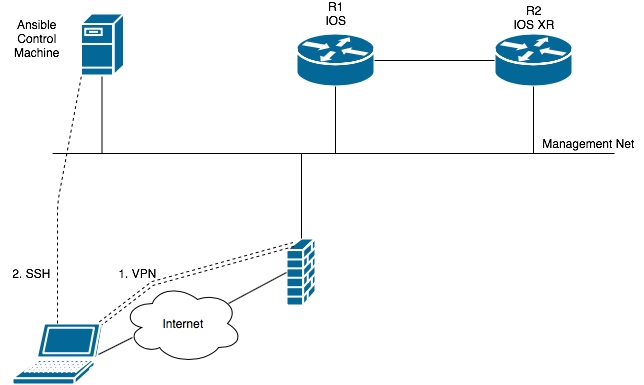
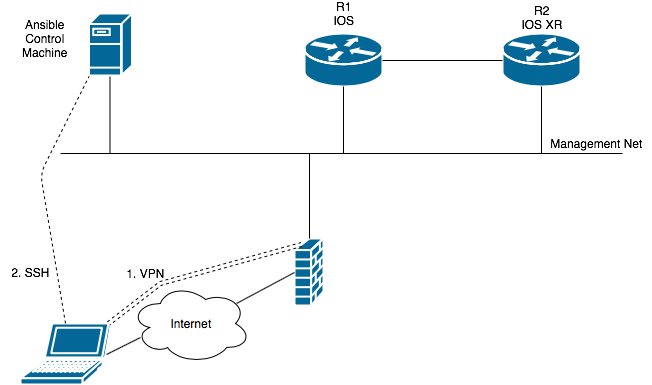
skindown

diff --git a/network-automation-with-ansible-apr16.md b/network-automation-with-ansible-apr16.md
@@ -1,0 +1,363 @@
+
+# **<p align="center">NETWORK AUTOMATION</p>**
+# *<p align="center">with</p>*
+# **<p align="center">ANSIBLE</p>**
+---
+# **<p align="center">Lab Guide</p>**
+
+---
+# Table of Contents
+
+<!-- TOC depthFrom:1 depthTo:6 withLinks:1 updateOnSave:1 orderedList:0 -->
+
+- [**<p align="center">NETWORK AUTOMATION</p>**](#p-aligncenternetwork-automationp)
+- [*<p align="center">with</p>*](#p-aligncenterwithp)
+- [**<p align="center">ANSIBLE</p>**](#p-aligncenteransiblep)
+- [**<p align="center">Lab Guide</p>**](#p-aligncenterlab-guidep)
+- [Table of Contents](#table-of-contents)
+- [Lab Access](#lab-access)
+	- [Topology](#topology)
+	- [Lab access](#lab-access)
+		- [VPN in](#vpn-in)
+		- [SSH into "your" Ansible server](#ssh-into-your-ansible-server)
+		- [Ping your routers from Ansible server](#ping-your-routers-from-ansible-server)
+- [Ansible Concepts](#ansible-concepts)
+	- [Verification](#verification)
+		- [Sample output](#sample-output)
+	- [Configuration file](#configuration-file)
+		- [Sample output](#sample-output)
+	- [Inventory file](#inventory-file)
+		- [Example output](#example-output)
+		- [Verification](#verification)
+		- [Example output:](#example-output)
+	- [Ansible Modules](#ansible-modules)
+		- [Using "raw" module](#using-raw-module)
+		- [Examples](#examples)
+	- [Playbooks](#playbooks)
+		- [Executing playbooks](#executing-playbooks)
+		- [Optional playbook](#optional-playbook)
+
+<!-- /TOC -->
+
+---
+
+# Lab Access
+
+## Topology
+![topology](./images/ansible-lab-topo.png)
+
+## Lab access
+- Lab access involves two steps:
+  - Step-1: VPN into lab VPN server
+  - Step-2: SSH into the Ansible server
+
+### VPN in
+- Use Cisco AnyConnect Secure Mobility client
+  - Make sure to **uncheck** "block connections to untrusted servers"
+- Use the below details:
+  - VPN server IP address:
+  - Username:
+  - Password:
+
+### SSH into "your" Ansible server
+- Find your Ansible server IP address
+  - Refer to the Smartsheet that Manish sent.
+- If your PC is MS Windows, use *putty* or some other ssh client
+  - IP: `172.16.101.x`
+  - User: `cisco`
+  - Password: `cisco`
+- If your PC is MAC, from terminal app: `ssh cisco@172.16.101.x`
+
+### Ping your routers from Ansible server
+- Find your Ansible server IP address
+  - Refer to the Smartsheet that Manish sent.
+- On Ansible server, from Ubuntu $ prompt, `ping <IOS router IP>`
+- And, `ping <XR router IP>`
+- You should be able to **ssh into Ubuntu server and ping R1 and R2** to advance to the next section.
+- Review the section and discuss if you have any questions.
+
+
+---
+
+# Ansible Concepts
+- The following concepts are covered in this section:
+  - Configuration file
+  - inventory file
+  - Ansible Modules
+  - YAML
+  - Ansible Playbooks
+
+## Verification
+- Verify Ansible installation. Execute the commands below:
+  - `ansible --version`
+  - `which ansible`
+  - `ansible --help`
+
+### Sample output
+
+```
+cisco@ansible-controller:~$ ansible --version
+ansible 2.5.0
+  config file = /etc/ansible/ansible.cfg
+  configured module search path = [u'/home/cisco/.ansible/plugins/modules', u'/usr/share/ansible/plugins/modules']
+  ansible python module location = /usr/lib/python2.7/dist-packages/ansible
+  executable location = /usr/bin/ansible
+  python version = 2.7.6 (default, Oct 26 2016, 20:30:19) [GCC 4.8.4]
+cisco@ansible-controller:~$ which ansible
+/usr/bin/ansible
+cisco@server-1:~$ ansible --help
+Usage: ansible <host-pattern> [options]
+:
+Some modules do not make sense in Ad-Hoc (include, meta, etc)
+cisco@server-1:~$
+```
+## Configuration file
+
+- Find Ansible config file
+  - `$ ansible --version`
+  - This output points to `config file = /etc/ansible/ansible.cfg`
+- Browse the config file and quickly go over different sections, denoted by []
+  - `$ grep -v "#" /etc/ansible/ansible.cfg | grep -v ^$`
+- In this section, we will edit 4 settings, under [default] section:
+  - inventory
+  - host_key_checking
+  - timeout
+  - retry_files_enabled
+- Read the config file and find the default settings for the above parameters
+  - `$ grep inventory /etc/ansible/ansible.cfg`
+  - `$ grep host_key /etc/ansible/ansible.cfg`
+  - `$ grep timeout /etc/ansible/ansible.cfg`
+  - `$ grep retry_files_enabled /etc/ansible/ansible.cfg`
+- Edit the config file
+  - Use your favorite editing method to edit the file
+  - Ubuntu inbuilt editors: vi, vim
+  - Or, edit the file on your laptop and copy to Ansible server
+  - Or, copy it from reference directory (XXXX)
+  - The target config lines are already there in the file but are commented. You may add new lines or simple delete # at the beginning of the line.
+- After editing, the config file will look like below.
+
+### Sample output
+
+```
+[defaults]
+
+inventory      = /etc/ansible/hosts
+
+host_key_checking = False
+
+timeout = 10
+
+retry_files_enabled = False
+
+cisco@ansible-controller:~$ grep -v "#" /etc/ansible/ansible.cfg | grep -v ^$
+
+[defaults]
+inventory      = /etc/ansible/hosts
+host_key_checking = False
+timeout = 10
+retry_files_enabled = False
+
+[inventory]
+[privilege_escalation]
+[paramiko_connection]
+[ssh_connection]
+[persistent_connection]
+[accelerate]
+[selinux]
+[colors]
+[diff]
+```
+
+- Review the config file subsection and discuss if you have any questions.
+
+## Inventory file
+
+- Edit your default inventory file: /etc/ansible/hosts
+- Create two device groups: IOS and XR
+- Assign the following variables to the devices: ansible_user=cisco ansible_ssh_pass=cisco
+- Find out your IOS and XR router mgmt IP addresses. Plug them in the file below.
+- For editing, you may use your favorite method.
+
+### Example output
+```
+[IOS]
+172.16.101.X ansible_user=cisco ansible_ssh_pass=cisco
+
+[XR]
+172.16.101.X ansible_user=cisco ansible_ssh_pass=cisco
+
+[ALL:children]
+IOS
+XR
+```
+
+### Verification
+- Read the contents of inventory file and verify acuracy: `$ cat /etc/ansible/hosts`
+- List inventory groups:
+
+```
+ansible --list-hosts IOS
+ansible --list-hosts XR
+ansible --list-hosts ALL
+```
+
+### Example output:
+
+```
+cisco@ansible-controller:~$ ansible --list-hosts IOS
+  hosts (1):
+    172.16.101.91
+cisco@ansible-controller:~$ ansible --list-hosts XR
+  hosts (1):
+    172.16.101.92
+cisco@ansible-controller:~$ ansible --list-hosts ALL
+  hosts (2):
+    172.16.101.91
+    172.16.101.92
+cisco@ansible-controller:~$
+```
+
+- Review the inventory subsection and discuss if you have any questions.
+
+
+## Ansible Modules
+
+- Ansible ships with several modules.
+- List installed modules:
+
+```
+$ ansible-doc -l
+$ ansible-doc -l | wc -l
+$ ansible-doc -l | grep ios_
+$ ansible-doc -l | grep iosxr
+```
+
+### Using "raw" module
+- What is raw module: Executes a low-down and dirty SSH command, not going through the module subsystem
+- We can execute commands on remote devices, using Ansible Raw module.
+- Ensure your server has Raw module: `$ ansible-doc -l | grep raw`
+- Detailed documentations: `$ ansible-doc raw` (just browse; no research)
+- Syntax: `ansible <devices> -m raw -a <command>`
+  - -m = module name
+  - -a = arguments
+
+### Examples
+- Execute a command on **your** routers (use correct IP address)
+
+```
+$ ansible 172.16.101.91 -m raw -a "sho ip interface brief"
+```
+
+- Execute a command on all routers in XR group
+  - Remember that you created XR group in "inventory" subsection.
+
+```
+$ ansible XR -m raw -a "sho ip interface brief"
+```
+- Execute "show ip int br" on all routers
+
+```
+$ ansible ALL -m raw -a "sho ip interface brief"
+```
+
+- Review this subsection and discuss if you have any questions.
+
+## Playbooks
+- Playbook structure:
+  - Playbook contains a list of plays.
+  - Each "play", mainly has 2 sections: 1) play-level parameters and 2) one or more "tasks"
+  - Each "tasks" section contains a list of modules.
+  - Each "module" consists a list of actions (~commands).
+  - All this is written in YAML format.
+- Here is a typical structure:
+
+```
+---
+
+- name: play-1 description
+  play-1-level parameters
+
+  tasks:
+    - name: task-1 description
+      module-1
+        action-1
+        action-2
+
+    - name: task-2 description
+      module-n
+        action-1
+        action-n
+...
+```
+
+- Copy the below contents into a file called p1.yml
+
+```
+---
+- name: play-1-output from IOS routers
+  hosts: IOS
+  gather_facts: no
+
+  tasks:
+    - raw:
+        show ip route summary
+
+      register: IOS_output
+
+    - debug:
+        var: IOS_output
+...
+```
+
+### Executing playbooks
+- After creating the playbook, it can be executed by using "`ansible-playbook`" command
+- Execute the below:
+  - `$ ansible-playbook p1.yml --syntax-check`
+  - `$ ansible-playbook p1.yml --check`
+  - `$ ansible-playbook p1.yml --step`
+  - `$ ansible-playbook p1.yml`
+
+> Quick read now, research later:
+>
+> "gather_facts: no"
+> - By default, Ansible collects system information. This is not supported in our environment and hence disabled.
+>
+> "register"
+> - Save the result from the module in a variable. In this case, we are saving "show ip.." output in IOS_output
+> - Refer: http://docs.ansible.com/ansible/latest/playbooks_conditionals.html#register-variables
+>
+> "debug"
+> - Debug module prints data
+> - reference: http://docs.ansible.com/ansible/latest/debug_module.html
+
+
+### Optional playbook
+- Try this if you have any time left.
+- The above playbook is similar to the one below; just another YAML representation.
+- copy the below contents into a file and name it p2.yml
+
+```
+---
+- name: play-1-output from IOS routers
+  hosts: IOS
+  gather_facts: no
+  tasks:
+    - raw: show ip route summary
+      register: IOS_output
+    - debug: var=IOS_output
+
+- name: play-2-output from XR routers
+  hosts: XR
+  gather_facts: no
+  tasks:
+    - raw: show route summary
+      register: XR_output
+    - debug: var=XR_output
+...
+```
+
+- Execute the playbook p2.yml:
+  - `$ ansible-playbook p2.yml`
+- Review this subsection and discuss if you have any questions.
+
+---
